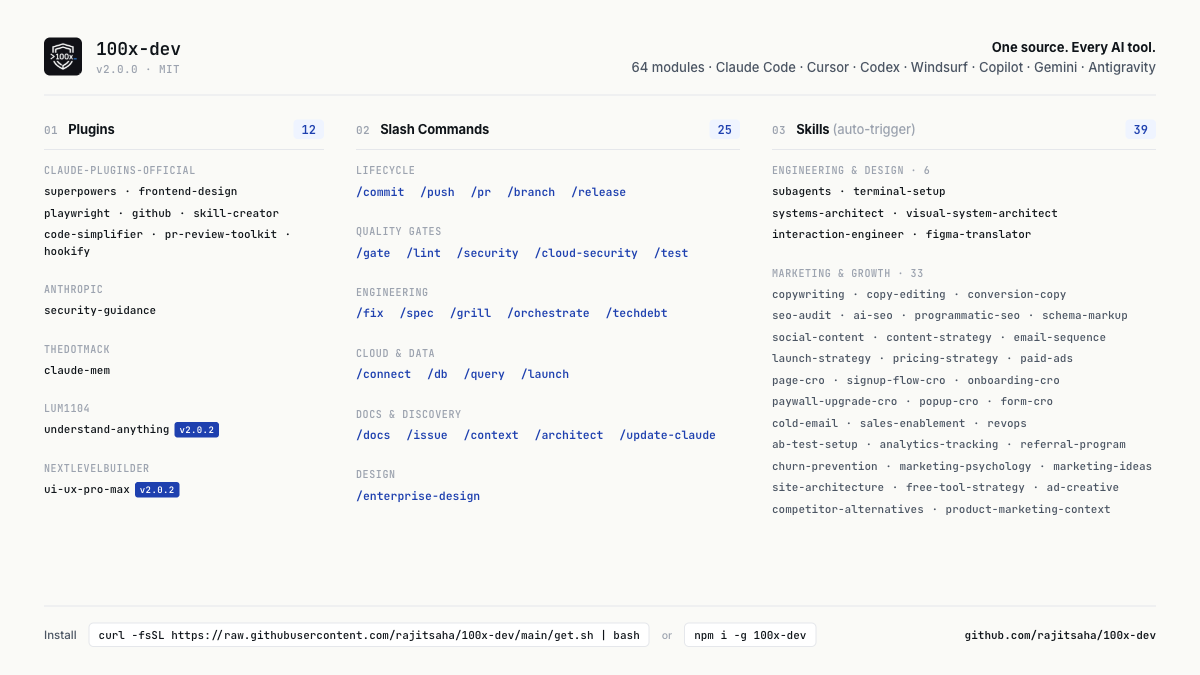
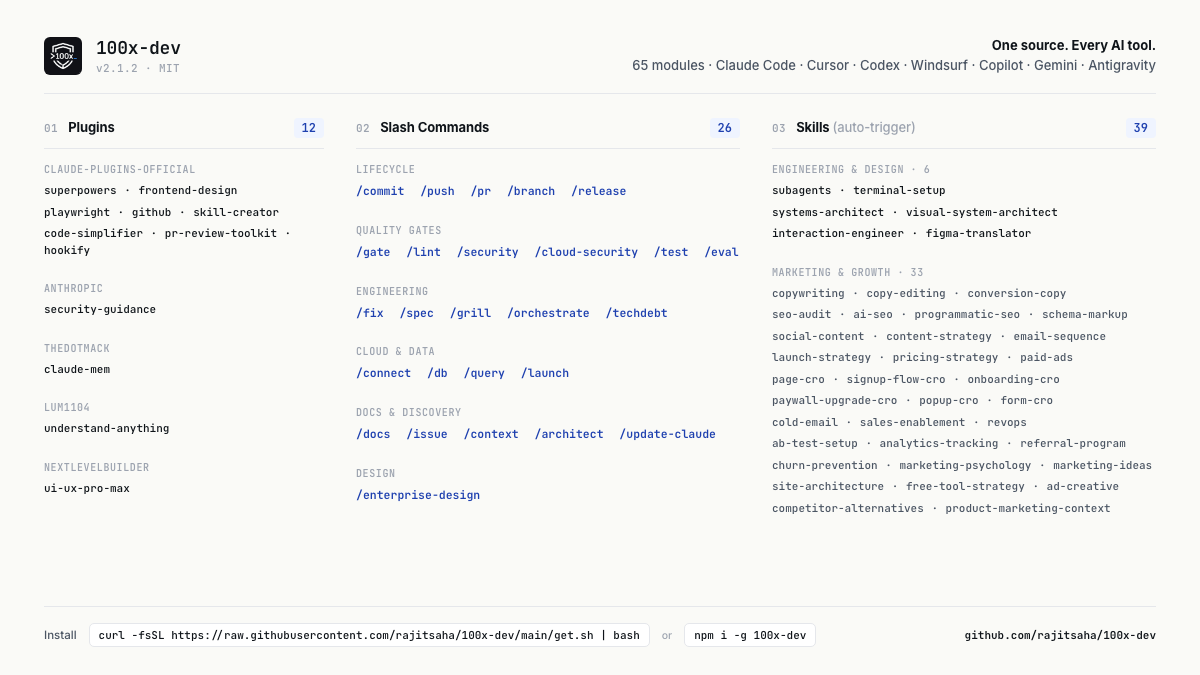
chore: regenerate postcard-stack with v2.1.2 counts
- Version: v2.0.2 → v2.1.2
- Modules: 64 → 65
- Slash commands: 25 → 26 (added /eval)
- Removed stale NEW badges from understand-anything and ui-ux-pro-max
- Updated README alt text to match

diff --git a/assets/postcard-stack.html b/assets/postcard-stack.html
@@ -211,12 +211,12 @@
       <img class="brand-logo" src="100x-dev-blogo.png" alt="100x-dev">
       <div class="brand-text">
         <span class="brand-name">100x-dev</span>
-        <span class="brand-version">v2.0.2 · MIT</span>
+        <span class="brand-version">v2.1.2 · MIT</span>
       </div>
     </div>
     <div class="header-tag">
       <strong>One source. Every AI tool.</strong><br>
-      64 modules · Claude Code · Cursor · Codex · Windsurf · Copilot · Gemini · Antigravity
+      65 modules · Claude Code · Cursor · Codex · Windsurf · Copilot · Gemini · Antigravity
     </div>
   </div>
 
@@ -250,12 +250,12 @@
 
       <div class="group">
         <div class="group-label">lum1104</div>
-        <div class="row tight">understand-anything<span class="new-badge">v2.0.2</span></div>
+        <div class="row tight">understand-anything</div>
       </div>
 
       <div class="group">
         <div class="group-label">nextlevelbuilder</div>
-        <div class="row tight">ui-ux-pro-max<span class="new-badge">v2.0.2</span></div>
+        <div class="row tight">ui-ux-pro-max</div>
       </div>
     </div>
 
@@ -264,7 +264,7 @@
       <div class="col-header">
         <span class="col-num">02</span>
         <span class="col-title">Slash Commands</span>
-        <span class="col-count">25</span>
+        <span class="col-count">26</span>
       </div>
 
       <div class="group">
@@ -274,7 +274,7 @@
 
       <div class="group">
         <div class="group-label">Quality Gates</div>
-        <div class="row"><span class="slash">/gate</span> &nbsp;<span class="slash">/lint</span> &nbsp;<span class="slash">/security</span> &nbsp;<span class="slash">/cloud-security</span> &nbsp;<span class="slash">/test</span></div>
+        <div class="row"><span class="slash">/gate</span> &nbsp;<span class="slash">/lint</span> &nbsp;<span class="slash">/security</span> &nbsp;<span class="slash">/cloud-security</span> &nbsp;<span class="slash">/test</span> &nbsp;<span class="slash">/eval</span></div>
       </div>
 
       <div class="group">

diff --git a/README.md b/README.md
@@ -12,7 +12,7 @@
 
 **One source of truth.** 65 modules generate native config for **Claude Code · Cursor · Codex · Windsurf · Copilot · Gemini · Antigravity**. Quality gates run on every commit.
 
-<img src="assets/postcard-stack.png" alt="100x-dev stack at a glance — 12 plugins, 26 slash commands, 39 auto-trigger skills" width="100%" />
+<img src="assets/postcard-stack.png" alt="100x-dev v2.1.2 — 12 plugins, 26 slash commands, 39 auto-trigger skills" width="100%" />
 
 </div>
 